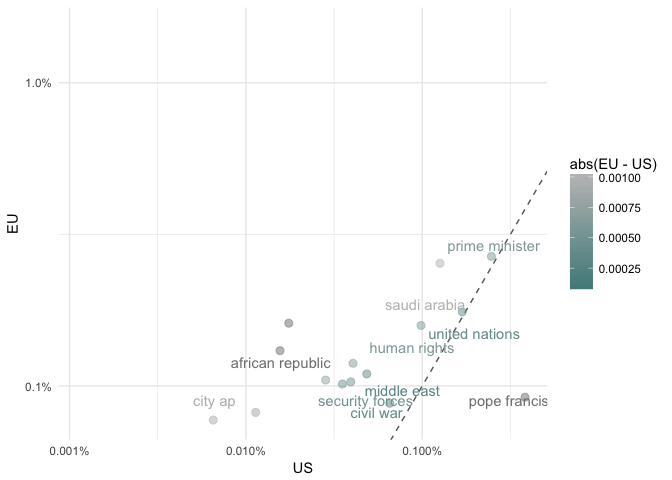
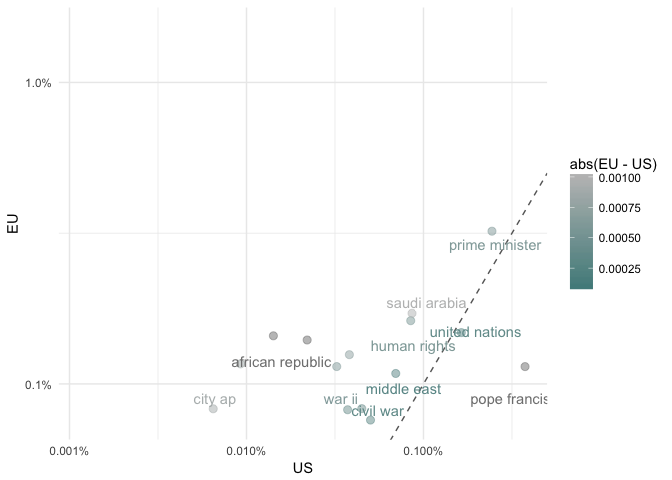
updated pres

diff --git a/section-2-nlp.md b/section-2-nlp.md
@@ -24,15 +24,47 @@ Importing JSON
 The September folder contains 31,776 files each containing one JSON object.
 
 ``` r
-folder_name <- grep("webhose", list.dirs("data"), value = TRUE)
+list.dirs("data")
 ```
+
+    ## [1] "data"                                       
+    ## [2] "data/678_webhose-2015-09-new_20170403170055"
+
+``` r
+folder_name <- grep("webhose", list.dirs("data"), value = TRUE)
+folder_name
+```
+
+    ## [1] "data/678_webhose-2015-09-new_20170403170055"
 
 ``` r
 news_files <- list.files(folder_name)
 length(news_files)
 ```
 
-    ## [1] 31776
+    ## [1] 19999
+
+``` r
+news_files[1:3]
+```
+
+    ## [1] "news_0000001.json" "news_0000002.json" "news_0000003.json"
+
+``` r
+head(news_files)
+```
+
+    ## [1] "news_0000001.json" "news_0000002.json" "news_0000003.json"
+    ## [4] "news_0000004.json" "news_0000005.json" "news_0000006.json"
+
+``` r
+tail(news_files, n =10)
+```
+
+    ##  [1] "news_0019990.json" "news_0019991.json" "news_0019992.json"
+    ##  [4] "news_0019993.json" "news_0019994.json" "news_0019995.json"
+    ##  [7] "news_0019996.json" "news_0019997.json" "news_0019998.json"
+    ## [10] "news_0019999.json"
 
 Let's get a sense of the JSON structure by looking at the first element
 
@@ -289,7 +321,26 @@ country_proportions <- news_words %>%
   select(country, word, proportion) %>%
   filter(country != '') %>%
   spread(country, proportion) 
+country_proportions
+```
 
+    ## # A tibble: 14,743 x 12
+    ##          word           AU    CA    EU          GB    IE           IL
+    ##  *      <chr>        <dbl> <dbl> <dbl>       <dbl> <dbl>        <dbl>
+    ##  1          â           NA    NA    NA          NA    NA           NA
+    ##  2        aap 7.960516e-05    NA    NA          NA    NA           NA
+    ##  3      aaron 1.459428e-04    NA    NA          NA    NA           NA
+    ##  4         ab           NA    NA    NA          NA    NA           NA
+    ##  5    abandon           NA    NA    NA          NA    NA           NA
+    ##  6  abandoned 7.297140e-05    NA    NA          NA    NA           NA
+    ##  7 abandoning           NA    NA    NA          NA    NA           NA
+    ##  8     abassi           NA    NA    NA          NA    NA           NA
+    ##  9      abbas           NA    NA    NA          NA    NA 0.0002143684
+    ## 10     abbott 6.103062e-04    NA    NA 0.000574985    NA           NA
+    ## # ... with 14,733 more rows, and 5 more variables: IN <dbl>, MY <dbl>,
+    ## #   SG <dbl>, US <dbl>, ZA <dbl>
+
+``` r
 country_proportions %>%
   ggplot(aes(US, EU, color = abs(EU - US))) +
   geom_abline(color = "gray40", lty = 2) +
@@ -324,7 +375,26 @@ bigram_proportions <- bigrams %>%
   select(country, word, proportion) %>%
   filter(country != '') %>%
   spread(country, proportion) 
+bigram_proportions
+```
 
+    ## # A tibble: 7,600 x 12
+    ##                   word           AU    CA    EU    GB    IE    IL    IN
+    ##  *               <chr>        <dbl> <dbl> <dbl> <dbl> <dbl> <dbl> <dbl>
+    ##  1       aaron rodgers           NA    NA    NA    NA    NA    NA    NA
+    ##  2          abc action 0.0002763661    NA    NA    NA    NA    NA    NA
+    ##  3            abc news           NA    NA    NA    NA    NA    NA    NA
+    ##  4 abdelfattah elsissi           NA    NA    NA    NA    NA    NA    NA
+    ##  5    abdrabbu mansour           NA    NA    NA    NA    NA    NA    NA
+    ##  6   abduction slaying           NA    NA    NA    NA    NA    NA    NA
+    ##  7        abdul gayoom           NA    NA    NA    NA    NA    NA    NA
+    ##  8        abdul rahman           NA    NA    NA    NA    NA    NA    NA
+    ##  9         abdullah ii           NA    NA    NA    NA    NA    NA    NA
+    ## 10      abdullah saleh           NA    NA    NA    NA    NA    NA    NA
+    ## # ... with 7,590 more rows, and 4 more variables: MY <dbl>, SG <dbl>,
+    ## #   US <dbl>, ZA <dbl>
+
+``` r
 bigram_proportions %>%
   ggplot(aes(US, EU, color = abs(EU - US))) +
   geom_abline(color = "gray40", lty = 2) +
@@ -352,7 +422,23 @@ bigrams <- bigrams %>%
   count(id, word) %>%
   bind_tf_idf(word, id, n) %>%
   arrange(desc(tf_idf))
+bigrams
 ```
+
+    ## # A tibble: 836,334 x 6
+    ##       id                 word     n    tf      idf   tf_idf
+    ##    <int>                <chr> <int> <dbl>    <dbl>    <dbl>
+    ##  1  1372       moroccan woman     1     1 9.198369 9.198369
+    ##  2  4552   disabled transform     1     1 9.198369 9.198369
+    ##  3  6198          blast music     1     1 9.198369 9.198369
+    ##  4  6220        watch kaparos     1     1 9.198369 9.198369
+    ##  5  7208   distressing images     1     1 9.198369 9.198369
+    ##  6  7538 production companies     1     1 8.505222 8.505222
+    ##  7  6075  federal regulations     1     1 8.099757 8.099757
+    ##  8  9136         limited time     1     1 7.588931 7.588931
+    ##  9  1227         flash floods     1     1 7.406610 7.406610
+    ## 10  7817        german brands     1     1 7.406610 7.406610
+    ## # ... with 836,324 more rows
 
 Sentiment Analysis
 ------------------

diff --git a/section-1-dplyr.md b/section-1-dplyr.md
@@ -301,7 +301,8 @@ Let's explore these by the stated purpose.
 
 ``` r
 loan10k %>% mutate(bad_status = loan_status %in% c("Charged Off", "Default")) %>%
-ggplot(aes(ln_annual_inc, ln_loan_amnt, color = bad_status)) + geom_point(alpha = 0.2) + facet_wrap(~ purpose)
+ggplot(aes(annual_inc, loan_amnt, color = bad_status)) + geom_point(alpha = 0.2) + facet_wrap(~ purpose) +
+  scale_x_log10() + scale_y_log10()
 ```
 
 ![](section-1-dplyr_files/figure-markdown_github-ascii_identifiers/unnamed-chunk-14-1.png)
@@ -394,7 +395,7 @@ income_requirement
 
 So, it seems that income must be above $50,000 to qualify for the max loan amount of $35,000.
 
-To calculate the income-based cutoff for those whose income is a binding constraint. Let's calculate slopes between each max and the corner of the binding constraint.
+To estimate the income-based cutoff for those whose income is a binding constraint. Let's calculate slopes between each max and the corner of the binding constraint.
 
 ``` r
 maxes <- loan10k %>%
@@ -438,7 +439,7 @@ The decision boundary
 
 So now we have enough information to define our best guess of the business logic determining the max loan given an individual's income.
 
-If the individual's income is less than
+If the individual's income, *x*, is less than $35,000, the estimated max loan amount, $\\bar{y}$, is
 
 $$log(\\bar{y})= 4.5 + 1.4 \* log(x)$$
 
